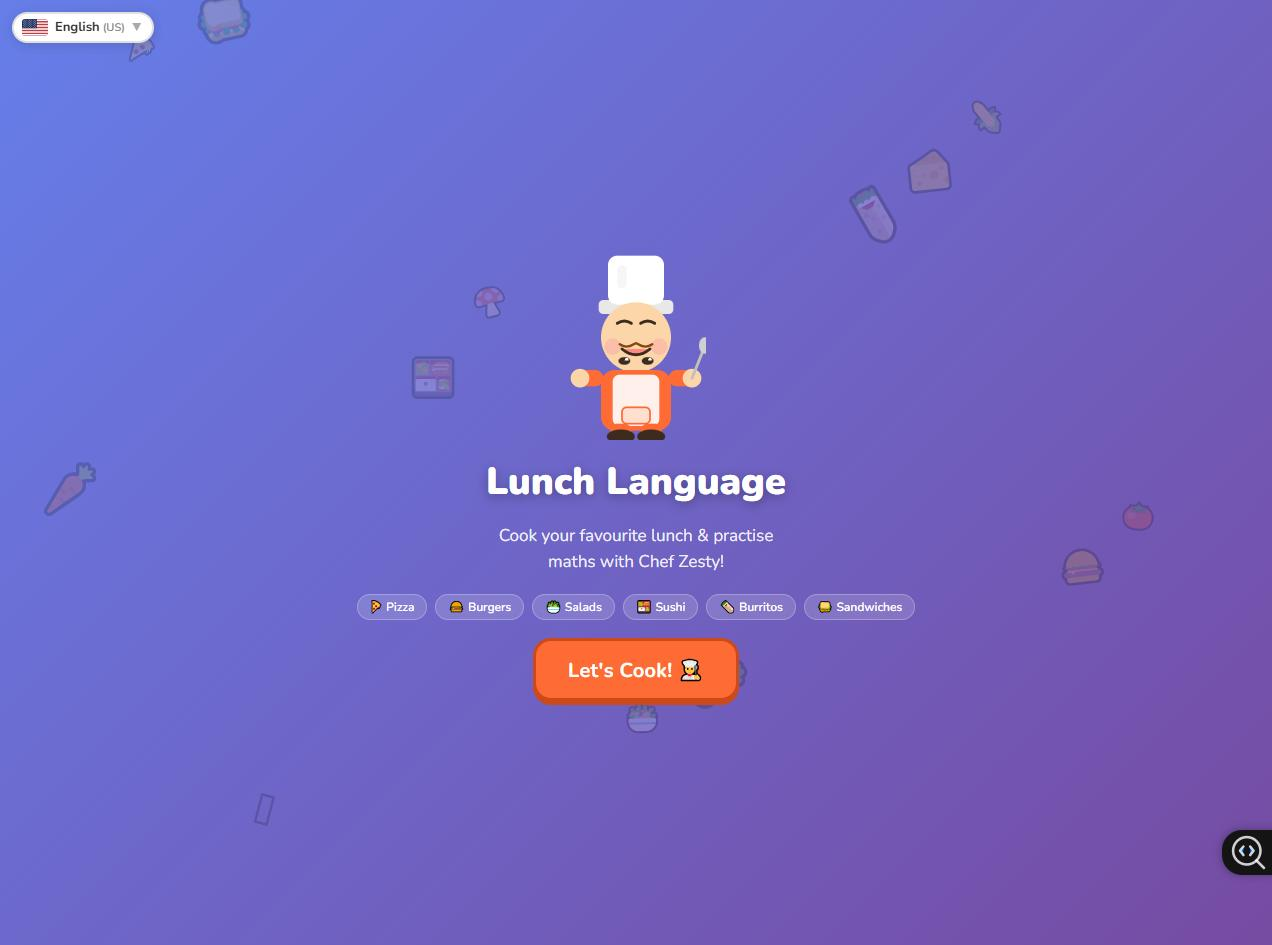
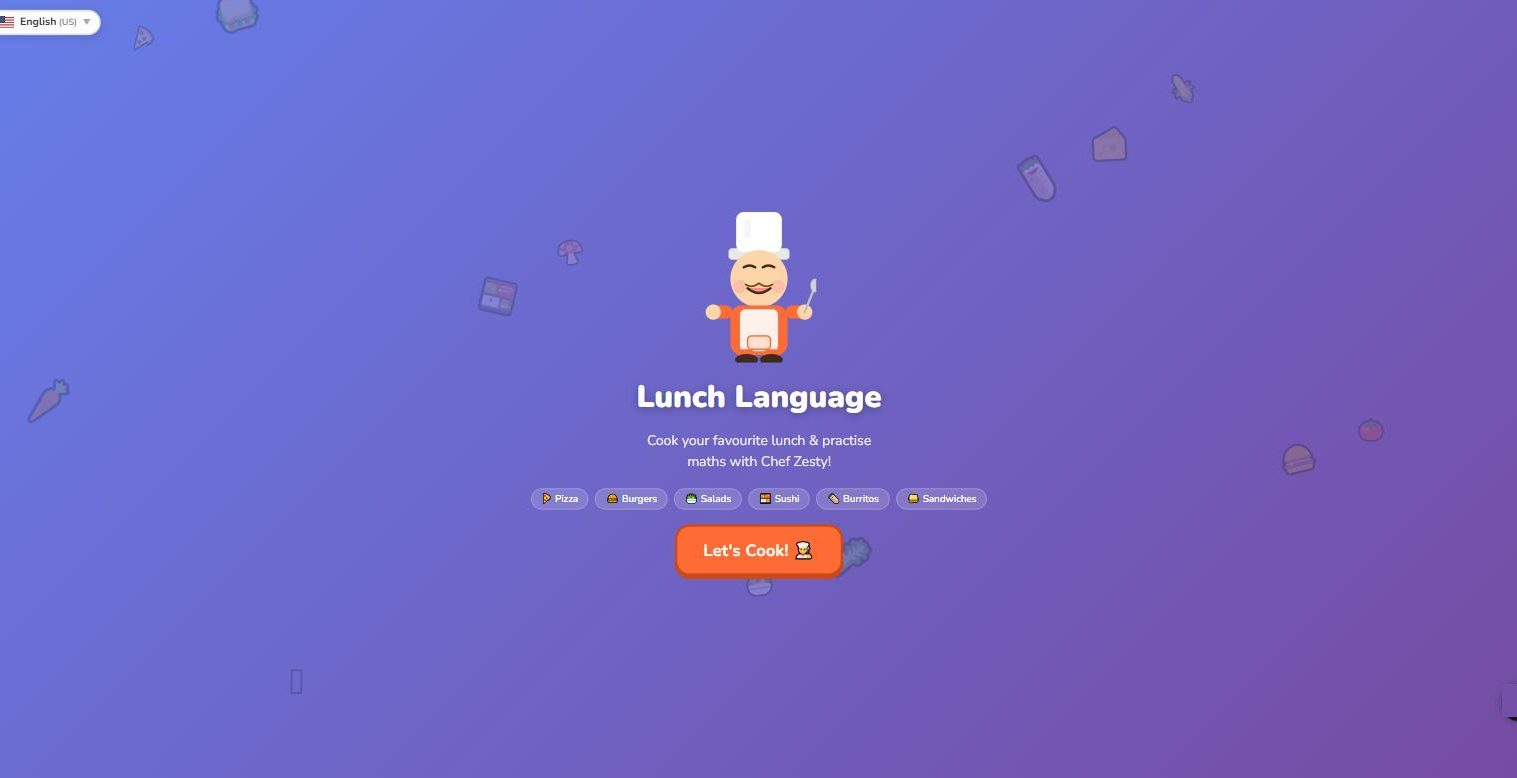
Give every build thumbnail the same aspect ratio — no more letterbox bars
The 16:10 media frame didn't match the screenshots (~1.95:1 wide, or
1.35:1 for LunchLanguage), so contain left grey bars above/below most
cards and beside LunchLanguage. Reshoot LunchLanguage at the standard
window size, normalise it and the Translator shot to the shared
1529:784 ratio, and set .build-media aspect-ratio to match. Now each
screenshot fills its frame edge to edge in both themes.

diff --git a/src/ReactResume.css b/src/ReactResume.css
@@ -556,7 +556,9 @@ kbd {
   border-radius: var(--radius-sm);
   overflow: hidden;
   border: 1px solid var(--border);
-  aspect-ratio: 16 / 10;
+  /* matches the build screenshots' native ratio so `contain` fills the
+     frame edge-to-edge with no letterbox bars */
+  aspect-ratio: 1529 / 784;
   background: var(--surface-2);
 }
 /* contain (not cover) so each screenshot sits fully inside the frame,
